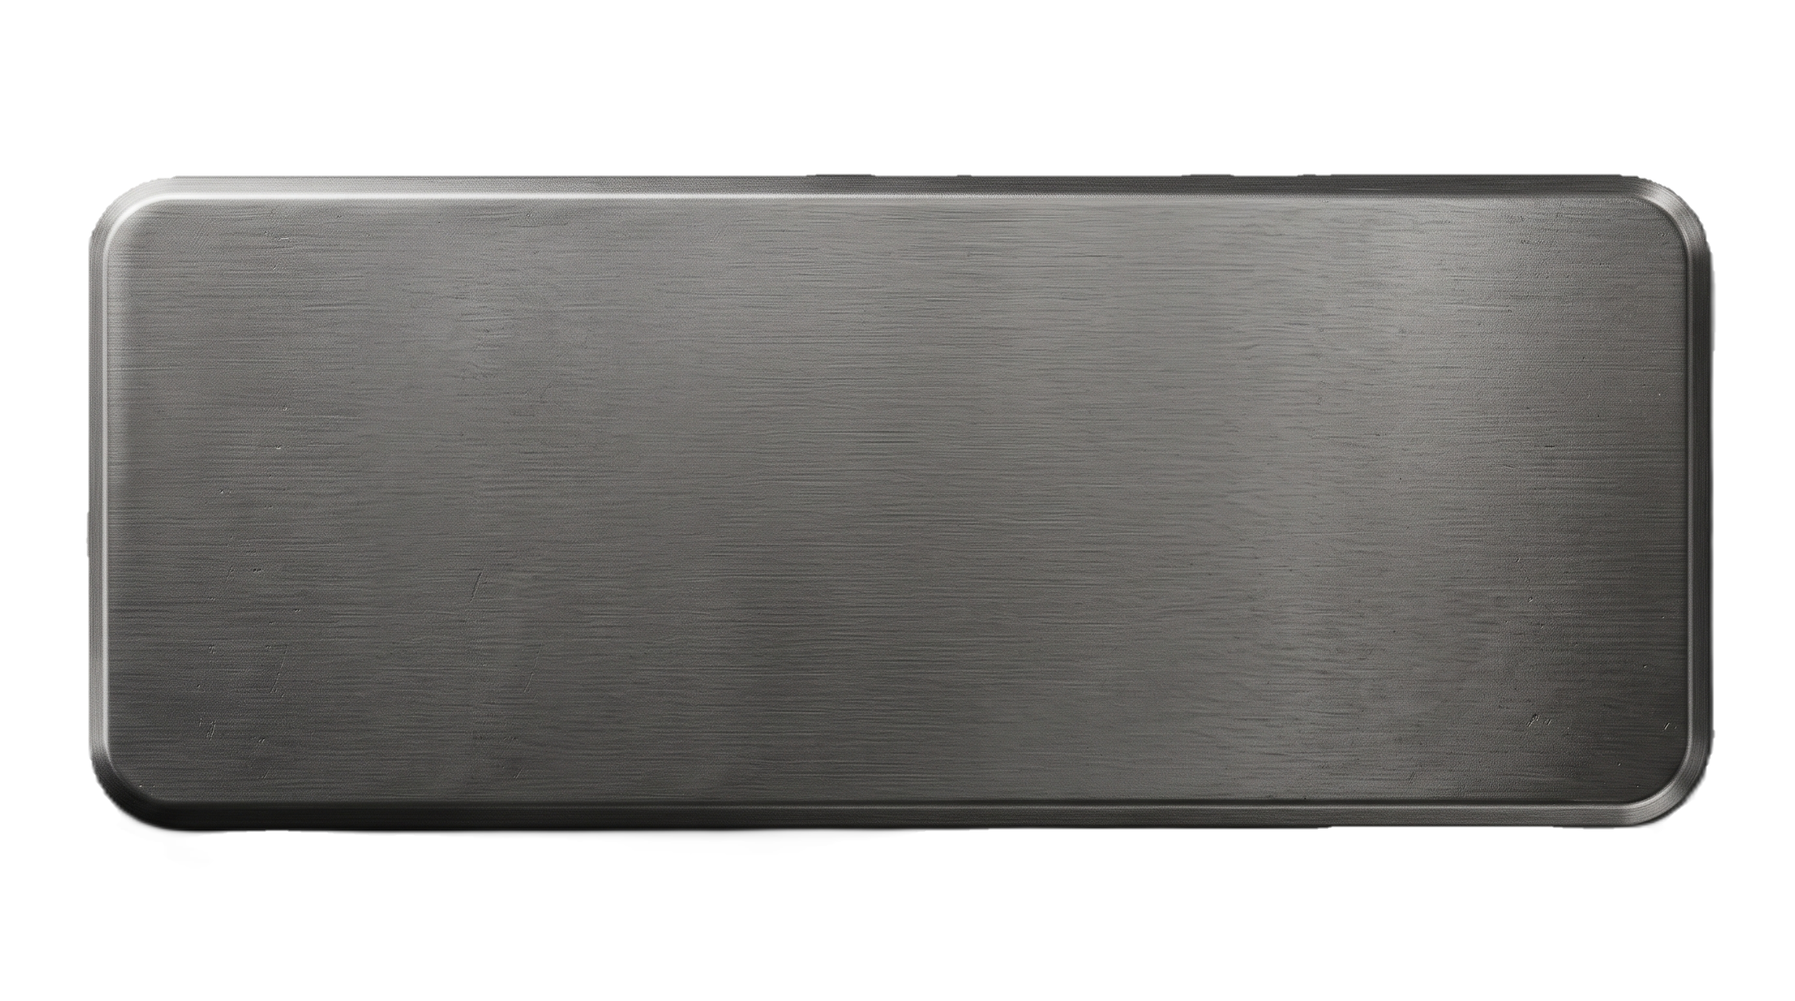
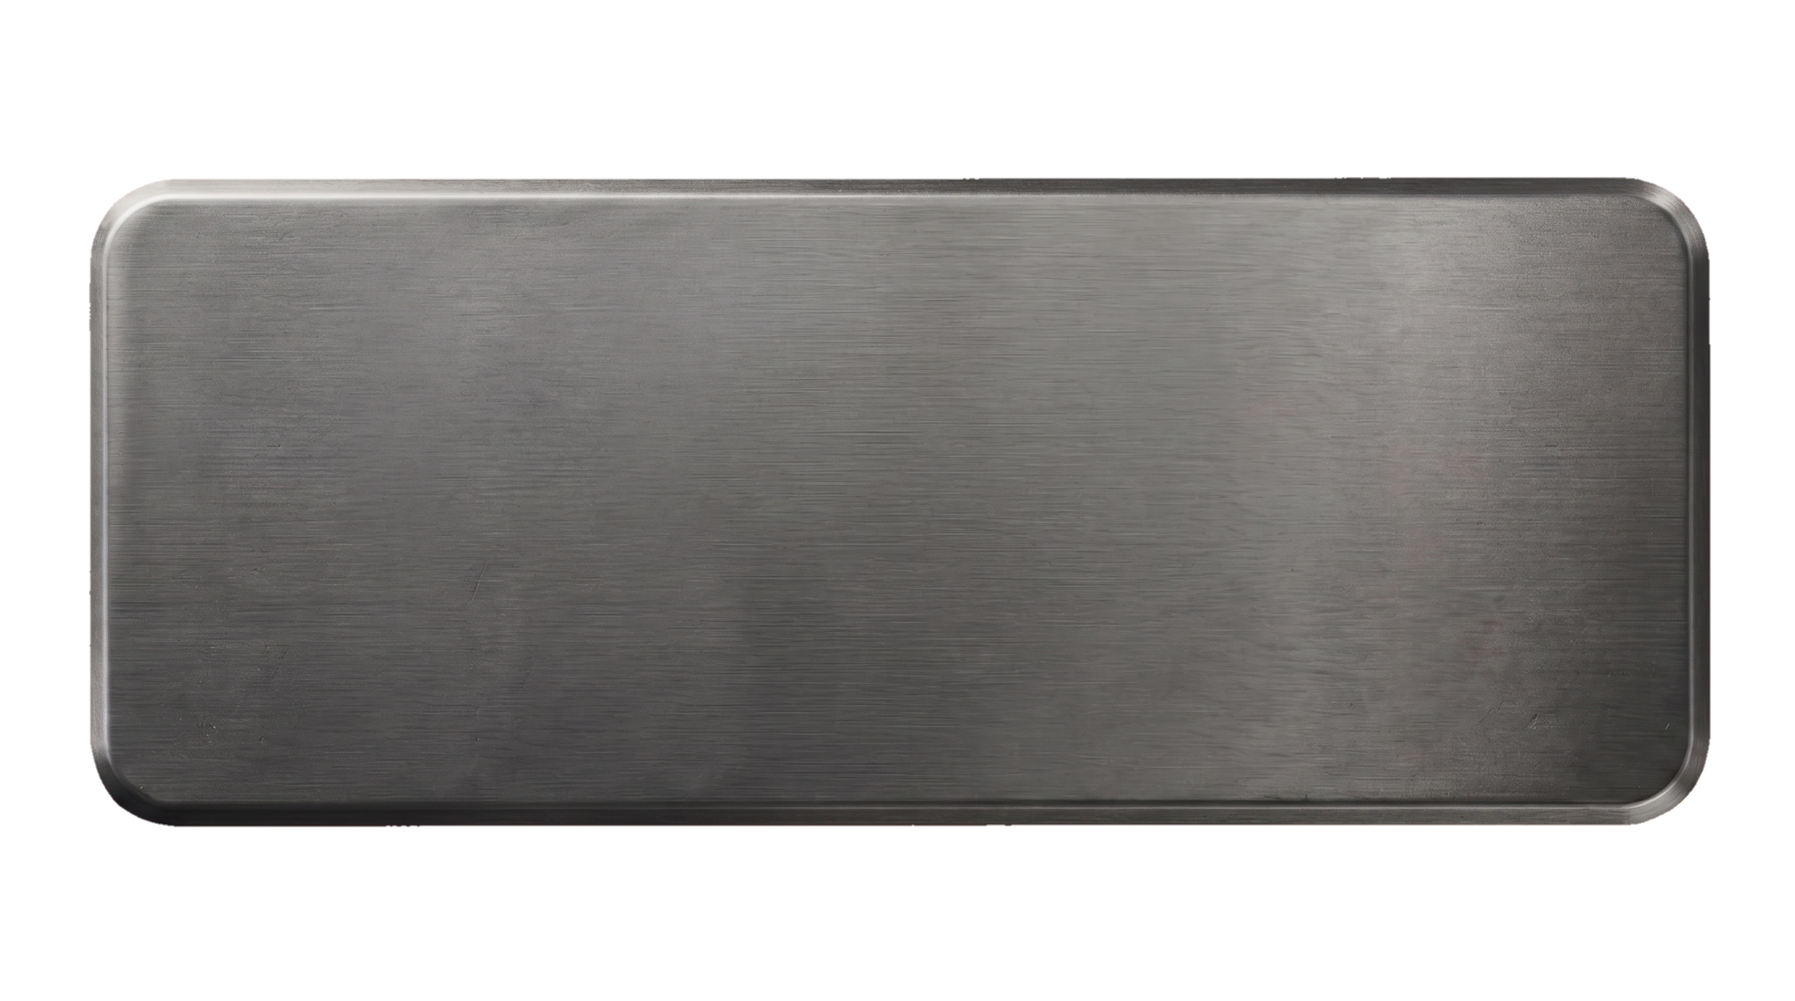
feat(fuse): add unscrewable fuse holder mechanism with detailed inspection modal

diff --git a/bmp_2_panel/MainWindow.xaml b/bmp_2_panel/MainWindow.xaml
@@ -857,10 +857,10 @@
                 <!-- Тахометр (ТЭ-48) -->
                 <Grid Canvas.Left="540" Canvas.Top="670" Width="230" Height="230" Panel.ZIndex="30" Cursor="Hand" Tag="Turnover" MouseLeftButtonDown="Sensor_MouseDown">
                     <Image x:Name="SensorTurnover" Source="/bmp_2_panel;component/assets/sensors/turnover.png" Stretch="Uniform" RenderOptions.BitmapScalingMode="HighQuality"/>
-                    <Image Source="/bmp_2_panel;component/assets/background/screw.png" Width="18" Height="18" HorizontalAlignment="Left" VerticalAlignment="Top" Margin="25,25,0,0" Panel.ZIndex="50" IsHitTestVisible="False" RenderOptions.BitmapScalingMode="HighQuality"/>
-                    <Image Source="/bmp_2_panel;component/assets/background/screw_round.png" Width="18" Height="18" HorizontalAlignment="Right" VerticalAlignment="Top" Margin="0,25,25,0" Panel.ZIndex="50" IsHitTestVisible="False" RenderOptions.BitmapScalingMode="HighQuality"/>
-                    <Image Source="/bmp_2_panel;component/assets/background/screw_round.png" Width="18" Height="18" HorizontalAlignment="Left" VerticalAlignment="Bottom" Margin="25,0,0,25" Panel.ZIndex="50" IsHitTestVisible="False" RenderOptions.BitmapScalingMode="HighQuality"/>
-                    <Image Source="/bmp_2_panel;component/assets/background/screw.png" Width="18" Height="18" HorizontalAlignment="Right" VerticalAlignment="Bottom" Margin="0,0,25,25" Panel.ZIndex="50" IsHitTestVisible="False" RenderOptions.BitmapScalingMode="HighQuality"/>
+                    <Image Source="/bmp_2_panel;component/assets/background/screw.png" Width="18" Height="18" HorizontalAlignment="Left" VerticalAlignment="Top" Margin="22,22,0,0" Panel.ZIndex="50" IsHitTestVisible="False" RenderOptions.BitmapScalingMode="HighQuality"/>
+                    <Image Source="/bmp_2_panel;component/assets/background/screw_round.png" Width="18" Height="18" HorizontalAlignment="Right" VerticalAlignment="Top" Margin="0,22,22,0" Panel.ZIndex="50" IsHitTestVisible="False" RenderOptions.BitmapScalingMode="HighQuality"/>
+                    <Image Source="/bmp_2_panel;component/assets/background/screw_round.png" Width="18" Height="18" HorizontalAlignment="Left" VerticalAlignment="Bottom" Margin="22,0,0,22" Panel.ZIndex="50" IsHitTestVisible="False" RenderOptions.BitmapScalingMode="HighQuality"/>
+                    <Image Source="/bmp_2_panel;component/assets/background/screw.png" Width="18" Height="18" HorizontalAlignment="Right" VerticalAlignment="Bottom" Margin="0,0,22,22" Panel.ZIndex="50" IsHitTestVisible="False" RenderOptions.BitmapScalingMode="HighQuality"/>
                     <Image x:Name="SensorTurnoverBright" Source="/bmp_2_panel;component/assets/sensors/turnover_bright.png" Style="{StaticResource SensorBrightOverlay}"/>
                     
                     <Canvas Width="230" Height="230" Panel.ZIndex="45">
@@ -893,10 +893,10 @@
                 <!-- Термометр ТУЭ-48 -->
                 <Grid Canvas.Left="1150" Canvas.Top="673" Width="230" Height="230" Panel.ZIndex="30" Cursor="Hand" Tag="Temperature" MouseLeftButtonDown="Sensor_MouseDown">
                     <Image x:Name="SensorTemperature" Source="/bmp_2_panel;component/assets/sensors/temperature.png" Stretch="Uniform" RenderOptions.BitmapScalingMode="HighQuality"/>
-                    <Image Source="/bmp_2_panel;component/assets/background/screw_round.png" Width="18" Height="18" HorizontalAlignment="Left" VerticalAlignment="Top" Margin="25,25,0,0" Panel.ZIndex="50" IsHitTestVisible="False" RenderOptions.BitmapScalingMode="HighQuality"/>
-                    <Image Source="/bmp_2_panel;component/assets/background/screw_round.png" Width="18" Height="18" HorizontalAlignment="Right" VerticalAlignment="Top" Margin="0,25,25,0" Panel.ZIndex="50" IsHitTestVisible="False" RenderOptions.BitmapScalingMode="HighQuality"/>
-                    <Image Source="/bmp_2_panel;component/assets/background/screw.png" Width="18" Height="18" HorizontalAlignment="Left" VerticalAlignment="Bottom" Margin="25,0,0,25" Panel.ZIndex="50" IsHitTestVisible="False" RenderOptions.BitmapScalingMode="HighQuality"/>
-                    <Image Source="/bmp_2_panel;component/assets/background/screw.png" Width="18" Height="18" HorizontalAlignment="Right" VerticalAlignment="Bottom" Margin="0,0,25,25" Panel.ZIndex="50" IsHitTestVisible="False" RenderOptions.BitmapScalingMode="HighQuality"/>
+                    <Image Source="/bmp_2_panel;component/assets/background/screw_round.png" Width="18" Height="18" HorizontalAlignment="Left" VerticalAlignment="Top" Margin="22,22,0,0" Panel.ZIndex="50" IsHitTestVisible="False" RenderOptions.BitmapScalingMode="HighQuality"/>
+                    <Image Source="/bmp_2_panel;component/assets/background/screw_round.png" Width="18" Height="18" HorizontalAlignment="Right" VerticalAlignment="Top" Margin="0,22,22,0" Panel.ZIndex="50" IsHitTestVisible="False" RenderOptions.BitmapScalingMode="HighQuality"/>
+                    <Image Source="/bmp_2_panel;component/assets/background/screw.png" Width="18" Height="18" HorizontalAlignment="Left" VerticalAlignment="Bottom" Margin="22,0,0,22" Panel.ZIndex="50" IsHitTestVisible="False" RenderOptions.BitmapScalingMode="HighQuality"/>
+                    <Image Source="/bmp_2_panel;component/assets/background/screw.png" Width="18" Height="18" HorizontalAlignment="Right" VerticalAlignment="Bottom" Margin="0,0,22,22" Panel.ZIndex="50" IsHitTestVisible="False" RenderOptions.BitmapScalingMode="HighQuality"/>
                     <Image x:Name="SensorTemperatureBright" Source="/bmp_2_panel;component/assets/sensors/temperature_bright.png" Style="{StaticResource SensorBrightOverlay}"/>
                     
                     <Canvas Width="230" Height="230" Panel.ZIndex="45">
@@ -923,10 +923,10 @@
                 <!-- Масло ДВ -->
                 <Grid Canvas.Left="1425" Canvas.Top="703" Width="200" Height="200" Panel.ZIndex="30" Cursor="Hand" Tag="Oil" MouseLeftButtonDown="Sensor_MouseDown">
                     <Image x:Name="SensorOil" Source="/bmp_2_panel;component/assets/sensors/oil.png" Stretch="Uniform" RenderOptions.BitmapScalingMode="HighQuality"/>
-                    <Image Source="/bmp_2_panel;component/assets/background/screw.png" Width="16" Height="16" HorizontalAlignment="Left" VerticalAlignment="Top" Margin="24,24,0,0" Panel.ZIndex="50" IsHitTestVisible="False" RenderOptions.BitmapScalingMode="HighQuality"/>
-                    <Image Source="/bmp_2_panel;component/assets/background/screw_round.png" Width="16" Height="16" HorizontalAlignment="Right" VerticalAlignment="Top" Margin="0,24,24,0" Panel.ZIndex="50" IsHitTestVisible="False" RenderOptions.BitmapScalingMode="HighQuality"/>
-                    <Image Source="/bmp_2_panel;component/assets/background/screw.png" Width="16" Height="16" HorizontalAlignment="Left" VerticalAlignment="Bottom" Margin="24,0,0,24" Panel.ZIndex="50" IsHitTestVisible="False" RenderOptions.BitmapScalingMode="HighQuality"/>
-                    <Image Source="/bmp_2_panel;component/assets/background/screw_round.png" Width="16" Height="16" HorizontalAlignment="Right" VerticalAlignment="Bottom" Margin="0,0,24,24" Panel.ZIndex="50" IsHitTestVisible="False" RenderOptions.BitmapScalingMode="HighQuality"/>
+                    <Image Source="/bmp_2_panel;component/assets/background/screw.png" Width="16" Height="16" HorizontalAlignment="Left" VerticalAlignment="Top" Margin="22,22,0,0" Panel.ZIndex="50" IsHitTestVisible="False" RenderOptions.BitmapScalingMode="HighQuality"/>
+                    <Image Source="/bmp_2_panel;component/assets/background/screw_round.png" Width="16" Height="16" HorizontalAlignment="Right" VerticalAlignment="Top" Margin="0,22,22,0" Panel.ZIndex="50" IsHitTestVisible="False" RenderOptions.BitmapScalingMode="HighQuality"/>
+                    <Image Source="/bmp_2_panel;component/assets/background/screw.png" Width="16" Height="16" HorizontalAlignment="Left" VerticalAlignment="Bottom" Margin="22,0,0,22" Panel.ZIndex="50" IsHitTestVisible="False" RenderOptions.BitmapScalingMode="HighQuality"/>
+                    <Image Source="/bmp_2_panel;component/assets/background/screw_round.png" Width="16" Height="16" HorizontalAlignment="Right" VerticalAlignment="Bottom" Margin="0,0,22,22" Panel.ZIndex="50" IsHitTestVisible="False" RenderOptions.BitmapScalingMode="HighQuality"/>
                     <Image x:Name="SensorOilBright" Source="/bmp_2_panel;component/assets/sensors/oil_bright.png" Style="{StaticResource SensorBrightOverlay}"/>
                     
                     <Canvas Width="200" Height="200" Panel.ZIndex="45">
@@ -943,10 +943,10 @@
                 <!-- Смазка КПП -->
                 <Grid Canvas.Left="1665" Canvas.Top="705" Width="200" Height="200" Panel.ZIndex="30" Cursor="Hand" Tag="Lubricant" MouseLeftButtonDown="Sensor_MouseDown">
                     <Image x:Name="SensorLubricant" Source="/bmp_2_panel;component/assets/sensors/lubricant.png" Stretch="Uniform" RenderOptions.BitmapScalingMode="HighQuality"/>
-                    <Image Source="/bmp_2_panel;component/assets/background/screw_round.png" Width="16" Height="16" HorizontalAlignment="Left" VerticalAlignment="Top" Margin="24,24,0,0" Panel.ZIndex="50" IsHitTestVisible="False" RenderOptions.BitmapScalingMode="HighQuality"/>
-                    <Image Source="/bmp_2_panel;component/assets/background/screw.png" Width="16" Height="16" HorizontalAlignment="Right" VerticalAlignment="Top" Margin="0,24,24,0" Panel.ZIndex="50" IsHitTestVisible="False" RenderOptions.BitmapScalingMode="HighQuality"/>
-                    <Image Source="/bmp_2_panel;component/assets/background/screw.png" Width="16" Height="16" HorizontalAlignment="Left" VerticalAlignment="Bottom" Margin="24,0,0,24" Panel.ZIndex="50" IsHitTestVisible="False" RenderOptions.BitmapScalingMode="HighQuality"/>
-                    <Image Source="/bmp_2_panel;component/assets/background/screw_round.png" Width="16" Height="16" HorizontalAlignment="Right" VerticalAlignment="Bottom" Margin="0,0,24,24" Panel.ZIndex="50" IsHitTestVisible="False" RenderOptions.BitmapScalingMode="HighQuality"/>
+                    <Image Source="/bmp_2_panel;component/assets/background/screw_round.png" Width="16" Height="16" HorizontalAlignment="Left" VerticalAlignment="Top" Margin="22,22,0,0" Panel.ZIndex="50" IsHitTestVisible="False" RenderOptions.BitmapScalingMode="HighQuality"/>
+                    <Image Source="/bmp_2_panel;component/assets/background/screw.png" Width="16" Height="16" HorizontalAlignment="Right" VerticalAlignment="Top" Margin="0,22,22,0" Panel.ZIndex="50" IsHitTestVisible="False" RenderOptions.BitmapScalingMode="HighQuality"/>
+                    <Image Source="/bmp_2_panel;component/assets/background/screw.png" Width="16" Height="16" HorizontalAlignment="Left" VerticalAlignment="Bottom" Margin="22,0,0,22" Panel.ZIndex="50" IsHitTestVisible="False" RenderOptions.BitmapScalingMode="HighQuality"/>
+                    <Image Source="/bmp_2_panel;component/assets/background/screw_round.png" Width="16" Height="16" HorizontalAlignment="Right" VerticalAlignment="Bottom" Margin="0,0,22,22" Panel.ZIndex="50" IsHitTestVisible="False" RenderOptions.BitmapScalingMode="HighQuality"/>
                     <Image x:Name="SensorLubricantBright" Source="/bmp_2_panel;component/assets/sensors/lubricant_bright.png" Style="{StaticResource SensorBrightOverlay}"/>
                     
                     <Canvas Width="200" Height="200" Panel.ZIndex="45">
@@ -1027,6 +1027,35 @@
                                 <Button Grid.Column="0" Content="О ПРОГРАММЕ" Style="{StaticResource MilitarySystemBtn}" Height="45" FontSize="14" Click="BtnAbout_Click"/>
                                 <Button Grid.Column="2" Content="ВЫХОД" Style="{StaticResource MilitarySystemBtn}" Height="45" FontSize="14" Click="BtnExit_Click"/>
                             </Grid>
+                        </StackPanel>
+                    </Grid>
+                </Border>
+            </Grid>
+            
+            <!-- Оверлей предохранителя: увеличенный размер и шрифты -->
+            <Grid x:Name="FuseInfoOverlay" Background="#D9000000" Panel.ZIndex="200" Visibility="Collapsed">
+                <Border HorizontalAlignment="Center" VerticalAlignment="Center" Background="#1C1E20" BorderBrush="#4E555B" BorderThickness="2" CornerRadius="8" Width="800">
+                    <Border.Effect>
+                        <DropShadowEffect Color="#000000" BlurRadius="30" ShadowDepth="8" Opacity="0.9"/>
+                    </Border.Effect>
+                    <Grid>
+                        <Image Source="/bmp_2_panel;component/assets/background/screw.png" Width="22" Height="22" HorizontalAlignment="Left" VerticalAlignment="Top" Margin="15,15,0,0" RenderOptions.BitmapScalingMode="HighQuality"/>
+                        <Image Source="/bmp_2_panel;component/assets/background/screw.png" Width="22" Height="22" HorizontalAlignment="Right" VerticalAlignment="Top" Margin="0,15,15,0" RenderOptions.BitmapScalingMode="HighQuality"/>
+                        <Image Source="/bmp_2_panel;component/assets/background/screw.png" Width="22" Height="22" HorizontalAlignment="Left" VerticalAlignment="Bottom" Margin="15,0,0,15" RenderOptions.BitmapScalingMode="HighQuality"/>
+                        <Image Source="/bmp_2_panel;component/assets/background/screw.png" Width="22" Height="22" HorizontalAlignment="Right" VerticalAlignment="Bottom" Margin="0,0,15,15" RenderOptions.BitmapScalingMode="HighQuality"/>
+
+                        <StackPanel Margin="50,45,50,45">
+                            <TextBlock Text="ПРЕДОХРАНИТЕЛЬ (АЗС)" FontSize="32" FontWeight="Bold" Foreground="#E2E6EA" FontFamily="Segoe UI" HorizontalAlignment="Center" Margin="0,0,0,8"/>
+                            <TextBlock Text="ВНУТРЕННЕЕ УСТРОЙСТВО" FontSize="18" FontWeight="SemiBold" Foreground="#778088" FontFamily="Segoe UI" HorizontalAlignment="Center" Margin="0,0,0,25"/>
+                            
+                            <Border Background="#111" BorderBrush="#383D42" BorderThickness="1" CornerRadius="4" Margin="0,0,0,25" Padding="20">
+                                <Image Source="/bmp_2_panel;component/assets/fuse/fuse.png" Height="280" Stretch="Uniform" RenderOptions.BitmapScalingMode="HighQuality"/>
+                            </Border>
+                            
+                            <TextBlock Text="Стеклянный предохранитель с плавкой вставкой. Предназначен для защиты электрических цепей БМП-2 от токов короткого замыкания и перегрузок. При превышении допустимой нагрузки нить перегорает, разрывая цепь. Устанавливается под откручивающейся крышкой на панели." 
+                                       FontSize="18" Foreground="#A0AAB2" FontFamily="Segoe UI" TextWrapping="Wrap" TextAlignment="Center" Margin="0,0,0,35" LineHeight="24"/>
+
+                            <Button Content="ЗАКРЫТЬ КРЫШКУ" Style="{StaticResource MilitarySystemBtn}" Height="55" Width="250" FontSize="16" Click="BtnCloseFuse_Click"/>
                         </StackPanel>
                     </Grid>
                 </Border>

diff --git a/bmp_2_panel/MainWindow.xaml.cs b/bmp_2_panel/MainWindow.xaml.cs
@@ -33,6 +33,7 @@ public partial class MainWindow
 
     private FrameworkElement? _activeKnob;
     private Point _lastKnobMousePos;
+    private double _accumulatedRotation = 0; // Переменная для отслеживания степени "откручивания"
 
     private class TutorialStep
     {
@@ -59,13 +60,13 @@ public partial class MainWindow
         if (e.OriginalSource is DependencyObject el)
         {
             var parentBtn = FindParent<Button>(el);
-            if (parentBtn != null && (parentBtn.Name == "BtnAbout" || parentBtn.Name == "BtnExit" || parentBtn.Name == "BtnModeSelect" || parentBtn.Content?.ToString() == "СМЕНИТЬ РЕЖИМ"))
+            if (parentBtn != null && (parentBtn.Name == "BtnAbout" || parentBtn.Name == "BtnExit" || parentBtn.Name == "BtnModeSelect" || parentBtn.Content?.ToString() == "СМЕНИТЬ РЕЖИМ" || parentBtn.Content?.ToString() == "ЗАКРЫТЬ КРЫШКУ"))
             {
                 return;
             }
 
             var parentBorder = FindParent<Border>(el);
-            if (parentBorder != null && (parentBorder.Name == "MainMenuOverlay" || parentBorder.Name == "TopHud"))
+            if (parentBorder != null && (parentBorder.Name == "MainMenuOverlay" || parentBorder.Name == "TopHud" || parentBorder.Name == "FuseInfoOverlay"))
             {
                 return;
             }
@@ -228,6 +229,7 @@ public partial class MainWindow
         TogglePanelLight.IsChecked = true;
         NightDimOverlay.BeginAnimation(UIElement.OpacityProperty, null);
         NightDimOverlay.Opacity = 0;
+        FuseInfoOverlay.Visibility = Visibility.Collapsed;
 
         if (FindName("SensorHourMeterBright") is Image hm) { hm.BeginAnimation(UIElement.OpacityProperty, null); hm.Opacity = 0; }
         if (FindName("SensorAmmeterBright") is Image am) { am.BeginAnimation(UIElement.OpacityProperty, null); am.Opacity = 0; }
@@ -711,7 +713,7 @@ public partial class MainWindow
             "Speedometer" => ("СПИДОМЕТР", "Скорость и пробег", "Отображает текущую скорость движения машины (км/ч) и пройденный километраж. Максимальная скорость по шоссе — 65 км/ч."),
             "Temperature" => ("ТЕРМОМЕТР ТУЭ-48", "Контроль температуры", "Двойной указатель: отображает температуру охлаждающей жидкости (слева) и масла двигателя (справа)."),
             "Oil" => ("МАСЛО ДВ.", "Давление масла двигателя", "Показывает давление в системе смазки дизеля. Нормальное эксплуатационное значение — 4-5 кгс/см²."),
-            "Lubricant" => ("СМАЗКА КПП", "Давление смазки", "Отображает текущее давление масла в системе смазки силовой передачи (коробки передач)."),
+            "Lubricant" => ("СМАЗКА КПП", "Давление смазки", "Отображает теку давление масла в системе смазки силовой передачи (коробки передач)."),
 
             "ToggleL1" => ("ВЫХОД ЗА ГАБАРИТ", "Сигнализация", "Включение системы звуковой и световой сигнализации при выходе вооружения за безопасные габариты машины."),
             "ToggleL2" => ("ТДА", "Термодымовая аппаратура", "Включение насоса ТДА многократного действия для впрыска топлива в выпускной коллектор и постановки плотной дымовой завесы."),
@@ -768,6 +770,7 @@ public partial class MainWindow
 
         _activeKnob = el;
         _lastKnobMousePos = e.GetPosition(this);
+        _accumulatedRotation = 0; // Сбрасываем счетчик при новом клике
         el.CaptureMouse();
     }
 
@@ -780,7 +783,25 @@ public partial class MainWindow
 
         if (_activeKnob.RenderTransform is RotateTransform rotate)
         {
-            rotate.Angle = (rotate.Angle + deltaX * 1.5) % 360;
+            double angleDelta = deltaX * 1.5;
+            rotate.Angle = (rotate.Angle + angleDelta) % 360;
+            _accumulatedRotation += Math.Abs(angleDelta); // Считаем общий угол поворота
+
+            // Если прокрутили крышку суммарно на 300 условных градусов (открутили)
+            if (_accumulatedRotation > 300)
+            {
+                if (_activeKnob.IsMouseCaptured)
+                {
+                    _activeKnob.ReleaseMouseCapture();
+                }
+                
+                _activeKnob = null;
+                _accumulatedRotation = 0;
+                
+                // Показываем окно с предохранителем
+                FuseInfoOverlay.Visibility = Visibility.Visible;
+                return;
+            }
         }
 
         _lastKnobMousePos = currentPos;
@@ -796,6 +817,12 @@ public partial class MainWindow
         }
 
         _activeKnob = null;
+    }
+
+    // Обработчик кнопки закрытия окна предохранителя
+    private void BtnCloseFuse_Click(object sender, RoutedEventArgs e)
+    {
+        FuseInfoOverlay.Visibility = Visibility.Collapsed;
     }
 
     private void BtnAbout_Click(object sender, RoutedEventArgs e)
